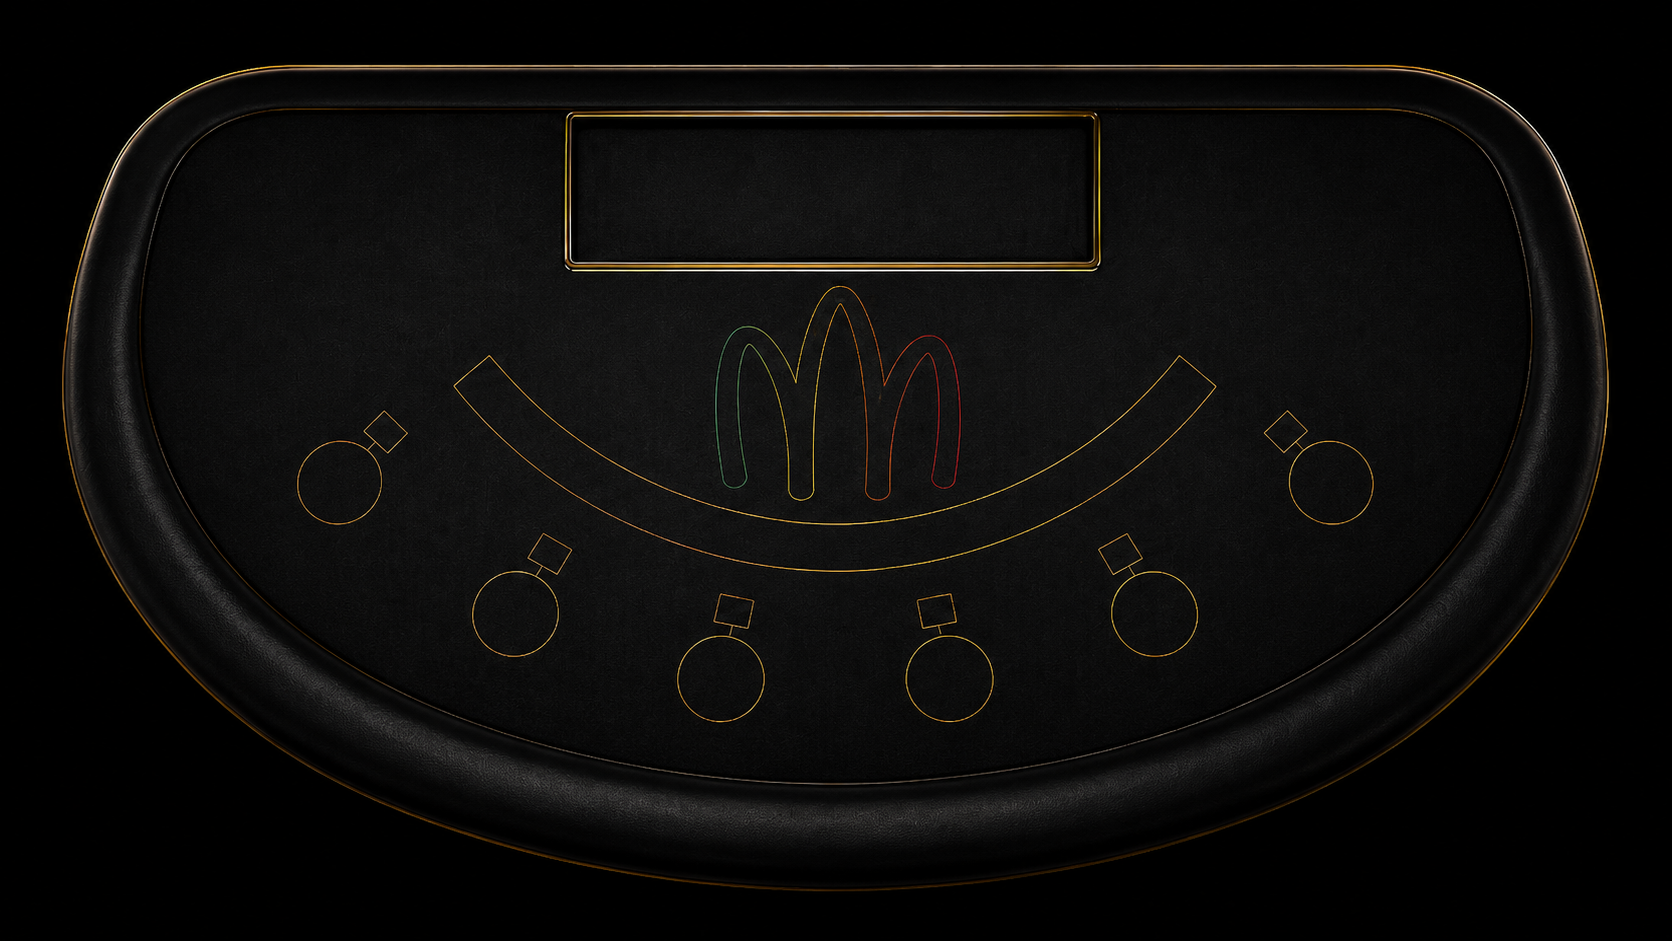
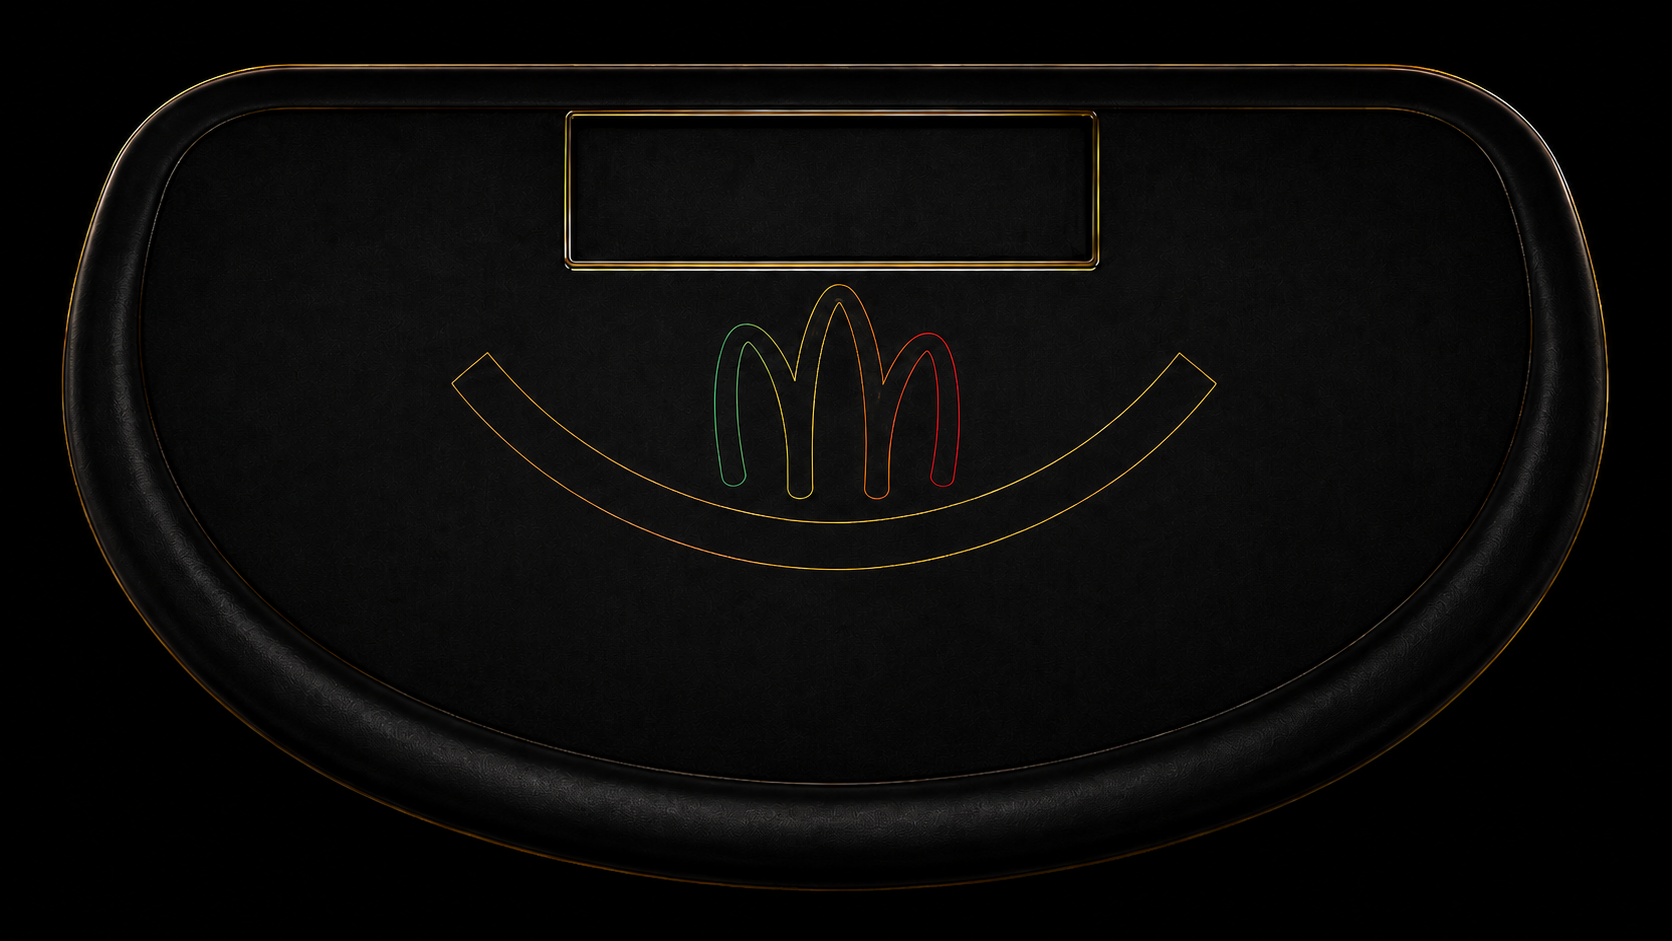
feat(blackjack): redesign seat buttons, solo mode 1 seat, compact bet controls

diff --git a/mini-app/apps/frontend/src/app/game/blackjack/blackjack-client.tsx b/mini-app/apps/frontend/src/app/game/blackjack/blackjack-client.tsx
@@ -26,7 +26,7 @@ interface Room {
   seats: Seat[];
 }
 
-// Увеличенные позиции для более крупного стола
+// Multiplayer seat positions (6 seats)
 const SEAT_POSITIONS: Record<number, { left: string; top: string }> = {
   1: { left: '10%', top: '58%' },
   2: { left: '26%', top: '70%' },
@@ -35,6 +35,9 @@ const SEAT_POSITIONS: Record<number, { left: string; top: string }> = {
   5: { left: '74%', top: '70%' },
   6: { left: '90%', top: '58%' },
 };
+
+// Solo seat position (1 seat in center)
+const SOLO_SEAT_POSITION: { left: string; top: string } = { left: '50%', top: '72%' };
 
 const MODE_CARDS: Array<{
   key: 'solo' | 'multi';
@@ -108,30 +111,23 @@ function Avatar({ occupant }: { occupant: Occupant }) {
 
 function InlineBetControls({ bet, onChange }: { bet: number; onChange: (value: number) => void }) {
   const fmt = (v: number) => v.toLocaleString('ru-RU');
-  const controls = [
-    { label: '-', fn: () => onChange(Math.max(1, bet - 10)) },
-    { label: '½', fn: () => onChange(Math.max(1, Math.floor(bet / 2))) },
-    { label: '2x', fn: () => onChange(Math.min(1_000_000, bet * 2)) },
-    { label: '+', fn: () => onChange(Math.min(1_000_000, bet + 10)) },
-  ];
 
   return (
-    <div className="flex flex-col items-center gap-0.5">
-      <div className="rounded-full border border-white/15 bg-black/70 px-2 py-0.5 text-[10px] font-semibold text-white shadow-lg shadow-black/40 backdrop-blur">
-        {fmt(bet)} zł
-      </div>
-      <div className="flex items-center gap-0.5">
-        {controls.map((c) => (
-          <button
-            key={c.label}
-            type="button"
-            onClick={c.fn}
-            className="h-6 w-6 rounded-full border border-white/15 bg-white/[0.08] text-[10px] text-white transition hover:border-white/30 hover:bg-white/[0.14]"
-          >
-            {c.label}
-          </button>
-        ))}
-      </div>
+    <div className="flex items-center gap-1">
+      <button
+        type="button"
+        onClick={() => onChange(Math.max(1, Math.floor(bet / 2)))}
+        className="h-5 px-1.5 rounded border border-white/15 bg-white/[0.08] text-[9px] text-white transition hover:border-white/30 hover:bg-white/[0.14]"
+      >
+        ½
+      </button>
+      <button
+        type="button"
+        onClick={() => onChange(Math.min(1_000_000, bet * 2))}
+        className="h-5 px-1.5 rounded border border-white/15 bg-white/[0.08] text-[9px] text-white transition hover:border-white/30 hover:bg-white/[0.14]"
+      >
+        ×2
+      </button>
     </div>
   );
 }
@@ -143,6 +139,7 @@ function SeatSpot({
   onSelect,
   bet,
   onBetChange,
+  onLeave,
 }: {
   seat: Seat;
   position: { left: string; top: string };
@@ -150,49 +147,64 @@ function SeatSpot({
   onSelect: () => void;
   bet: number;
   onBetChange: (value: number) => void;
+  onLeave?: () => void;
 }) {
   const occupiedByOther = !!seat.occupant && !isYou;
+  const isEmpty = !seat.occupant;
 
   return (
     <div
-      className="absolute z-20 flex -translate-x-1/2 -translate-y-1/2 flex-col items-center gap-2"
+      className="absolute z-20 flex -translate-x-1/2 -translate-y-1/2 flex-col items-center gap-1"
       style={{ left: position.left, top: position.top }}
     >
-      <button
-        type="button"
-        onClick={onSelect}
-        disabled={occupiedByOther}
-        className={cn(
-          'relative flex h-20 w-20 items-center justify-center rounded-full border-2 transition-all shadow-lg shadow-black/50 backdrop-blur',
-          occupiedByOther
-            ? 'cursor-not-allowed border-white/20 bg-white/[0.08]'
-            : isYou
-            ? 'border-emerald-300/80 bg-emerald-300/10 hover:border-emerald-200'
-            : 'border-amber-300/60 bg-black/70 hover:border-amber-200/70'
-        )}
-      >
-        {seat.occupant ? (
-          <div className="scale-110">
-            <Avatar occupant={seat.occupant} />
+      {/* Empty seat - small green plus button */}
+      {isEmpty && (
+        <button
+          type="button"
+          onClick={onSelect}
+          disabled={occupiedByOther}
+          className="flex h-10 w-10 items-center justify-center rounded-full border border-emerald-400/50 bg-emerald-500/20 text-emerald-300 text-lg font-bold transition-all shadow-lg shadow-black/50 backdrop-blur hover:bg-emerald-500/30 hover:scale-110"
+        >
+          +
+        </button>
+      )}
+
+      {/* Occupied by other - show avatar */}
+      {occupiedByOther && (
+        <div className="flex flex-col items-center gap-1">
+          <div className="relative flex h-14 w-14 items-center justify-center rounded-full border-2 border-white/20 bg-white/[0.08] shadow-lg">
+            <Avatar occupant={seat.occupant!} />
           </div>
-        ) : (
-          <div className="h-12 w-12 rounded-full border-2 border-dashed border-amber-200/60 bg-transparent" />
-        )}
-        <div className="absolute -top-1 -right-1 h-5 w-5 rounded-md border border-amber-200/60 bg-white/10" />
-      </button>
-      <div className="flex items-center gap-2 text-[11px] text-white/75">
-        <span className="rounded-full border border-white/10 bg-black/60 px-2 py-1 backdrop-blur">
-          Место {seat.id}
-        </span>
-        {occupiedByOther && <span className="text-white/50">Занято</span>}
-      </div>
-      {isYou ? (
-        <InlineBetControls bet={bet} onChange={onBetChange} />
-      ) : seat.occupant ? (
-        <div className="rounded-full border border-white/10 bg-white/10 px-3 py-1 text-[11px] text-white/85 shadow-sm">
-          {seat.occupant.name}
+          <div className="rounded-full border border-white/10 bg-black/60 px-2 py-0.5 text-[10px] text-white/70 backdrop-blur">
+            {seat.occupant!.name}
+          </div>
         </div>
-      ) : null}
+      )}
+
+      {/* Your seat - avatar with leave button and bet controls */}
+      {isYou && (
+        <div className="flex flex-col items-center gap-1">
+          <div className="relative">
+            <div className="flex h-16 w-16 items-center justify-center rounded-full border-2 border-emerald-400/60 bg-emerald-500/10 shadow-lg shadow-emerald-900/30">
+              <Avatar occupant={seat.occupant!} />
+            </div>
+            {/* Leave button (minus) in top-right corner */}
+            <button
+              type="button"
+              onClick={onLeave}
+              className="absolute -top-1 -right-1 flex h-5 w-5 items-center justify-center rounded-full border border-red-400/50 bg-red-500/20 text-red-300 text-xs font-bold transition hover:bg-red-500/30"
+            >
+              −
+            </button>
+          </div>
+          {/* Bet display */}
+          <div className="rounded-full border border-amber-300/30 bg-amber-400/10 px-2 py-0.5 text-[10px] font-medium text-amber-200">
+            {bet.toLocaleString('ru-RU')} zł
+          </div>
+          {/* Bet controls */}
+          <InlineBetControls bet={bet} onChange={onBetChange} />
+        </div>
+      )}
     </div>
   );
 }
@@ -212,9 +224,7 @@ export function BlackjackClient() {
 
   const [mode, setMode] = useState<'solo' | 'multi' | null>(null);
   const [bet, setBet] = useState(100);
-  const [soloSeats, setSoloSeats] = useState<Seat[]>(() =>
-    Array.from({ length: 6 }, (_, idx) => ({ id: idx + 1 }))
-  );
+  const [soloSeats, setSoloSeats] = useState<Seat[]>(() => [{ id: 1 }]);
 
   const [rooms, setRooms] = useState<Room[]>(() => ensureEmptyRoom([createRoom(1)]));
   const [activeRoomId, setActiveRoomId] = useState<string | null>(null);
@@ -476,7 +486,9 @@ export function BlackjackClient() {
   const renderTable = (
     seats: Seat[],
     onSeat: (id: number) => void,
-    activeSeatId: number | null
+    activeSeatId: number | null,
+    onLeave?: () => void,
+    isSolo: boolean = false
   ) => (
     <div className="relative mx-auto w-full max-w-[960px] overflow-hidden rounded-3xl bg-[#05060c] shadow-2xl">
       <div className="relative aspect-[4/3.5]">
@@ -485,7 +497,7 @@ export function BlackjackClient() {
 
         <div className="absolute left-4 top-4 z-30 flex items-center gap-2 rounded-full border border-white/10 bg-black/60 px-3 py-1.5 text-xs text-white/80 backdrop-blur">
           <Users size={16} className="text-amber-300" />
-          <span>Свободных мест: {6 - countFilled(seats)}/6</span>
+          <span>{isSolo ? '1 на 1 с дилером' : `Свободных мест: ${6 - countFilled(seats)}/6`}</span>
           {activeSeatId && (
             <span className="rounded-full bg-emerald-400/15 px-2 py-0.5 text-[11px] text-emerald-50 border border-emerald-300/30">
               Вы на месте {activeSeatId}
@@ -493,25 +505,45 @@ export function BlackjackClient() {
           )}
         </div>
 
-        {Object.entries(SEAT_POSITIONS).map(([id, position]) => {
-          const seat = seats.find((s) => s.id === Number(id));
-          if (!seat) return null;
-          const isYou = seat.occupant?.id === you.id;
-          return (
-            <SeatSpot
-              key={seat.id}
-              seat={seat}
-              position={position}
-              isYou={isYou}
-              onSelect={() => onSeat(seat.id)}
-              bet={bet}
-              onBetChange={setBet}
-            />
-          );
-        })}
+        {isSolo ? (
+          // Solo mode - 1 seat in center
+          <SeatSpot
+            key={1}
+            seat={seats[0] || { id: 1 }}
+            position={SOLO_SEAT_POSITION}
+            isYou={seats[0]?.occupant?.id === you.id}
+            onSelect={() => onSeat(1)}
+            onLeave={onLeave}
+            bet={bet}
+            onBetChange={setBet}
+          />
+        ) : (
+          // Multiplayer mode - 6 seats
+          Object.entries(SEAT_POSITIONS).map(([id, position]) => {
+            const seat = seats.find((s) => s.id === Number(id));
+            if (!seat) return null;
+            const isYou = seat.occupant?.id === you.id;
+            return (
+              <SeatSpot
+                key={seat.id}
+                seat={seat}
+                position={position}
+                isYou={isYou}
+                onSelect={() => onSeat(seat.id)}
+                onLeave={onLeave}
+                bet={bet}
+                onBetChange={setBet}
+              />
+            );
+          })
+        )}
       </div>
     </div>
   );
+
+  const handleSoloLeave = () => {
+    setSoloSeats((prev) => prev.map((s) => ({ ...s, occupant: undefined })));
+  };
 
   const renderSolo = () => (
     <div className="space-y-4">
@@ -524,7 +556,7 @@ export function BlackjackClient() {
         Назад к выбору режима
       </button>
       <h1 className="font-roobert text-[22px] text-white">Blackjack — SOLO</h1>
-      {renderTable(soloSeats, handleSoloSeat, currentSoloSeat)}
+      {renderTable(soloSeats, handleSoloSeat, currentSoloSeat, handleSoloLeave, true)}
     </div>
   );
 
